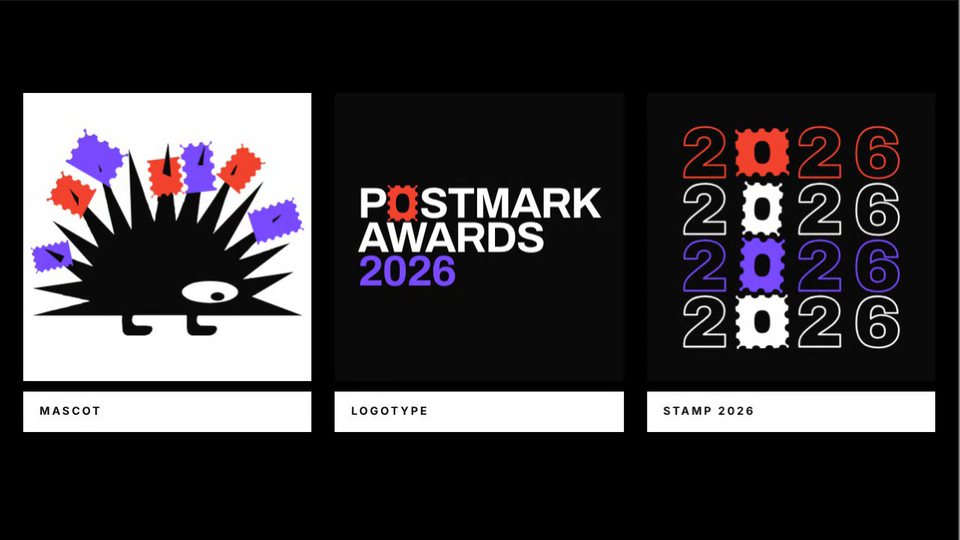
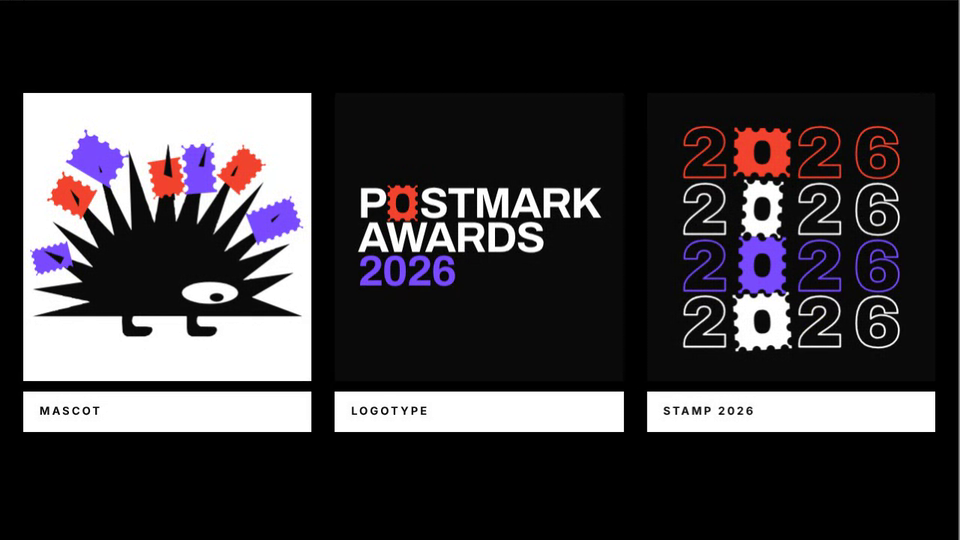
Postmark brand visuals: slightly bigger zero stamps in the repeating 2026
Claude-Session: https://claude.ai/code/session_01AHeBe11E2oZW8Zsz7RdnLE

Changed region(s): [[0.0312, 0.2667, 0.3125, 0.6222], [0.75, 0.237, 0.8438, 0.6519], [0.0625, 0.237, 0.0938, 0.2667]]

diff --git a/postmark-awards-brand-visuals/index.html b/postmark-awards-brand-visuals/index.html
@@ -156,7 +156,7 @@ function drawYear(ctx, W, H, t) {
       const cx = x0 + i * cw + cw / 2;
       if (d === '0') {
         const a = KINDS[(fl + r) % 4], b = KINDS[(fl + r + 1) % 4];
-        ringStamp(ctx, cx, cy, 94, 0.06 * Math.sin(TAU * t / 3 + r * 1.3), morph(a, b, mo), col);
+        ringStamp(ctx, cx, cy, 98, 0.06 * Math.sin(TAU * t / 3 + r * 1.3), morph(a, b, mo), col);
       } else {
         const mm = ctx.measureText(d), w = mm.actualBoundingBoxLeft + mm.actualBoundingBoxRight, h = mm.actualBoundingBoxAscent;
         ctx.strokeText(d, cx - w / 2 + mm.actualBoundingBoxLeft, cy + h / 2);
